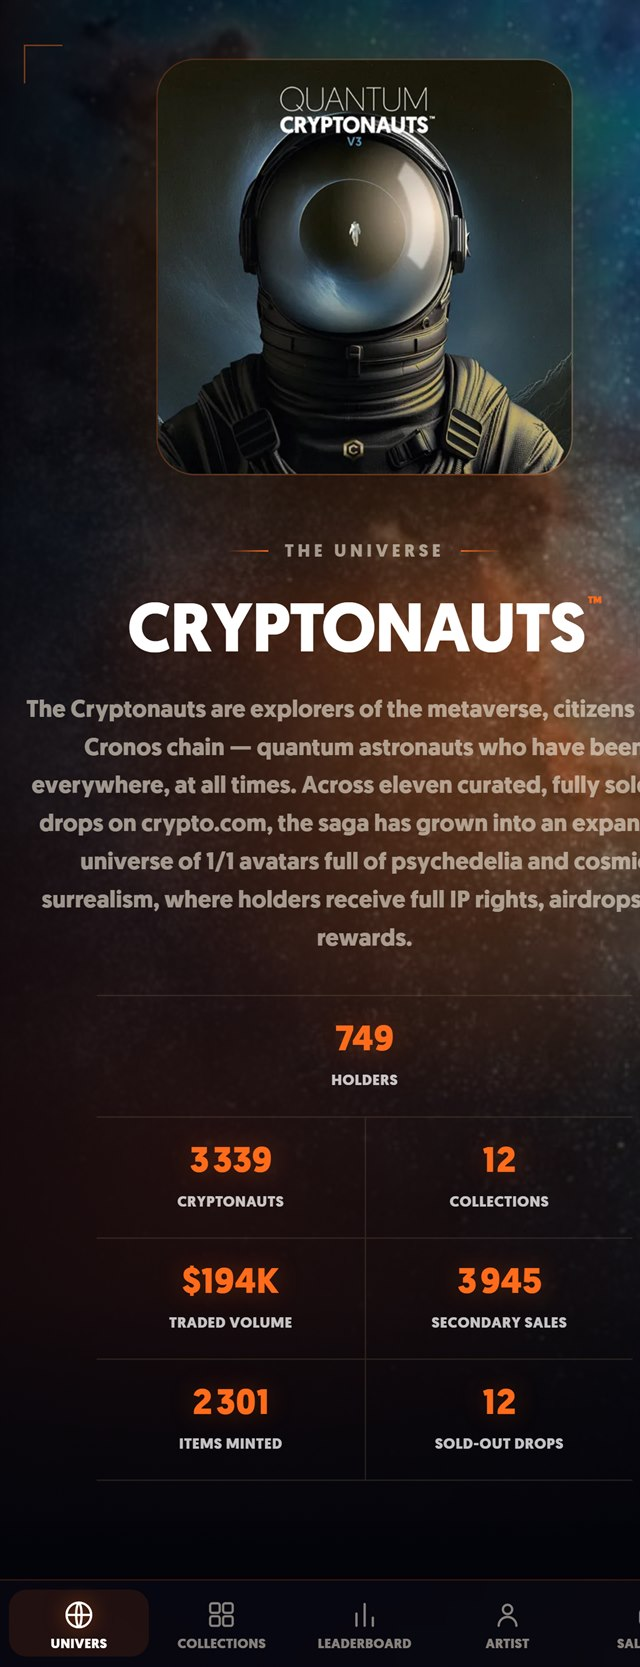
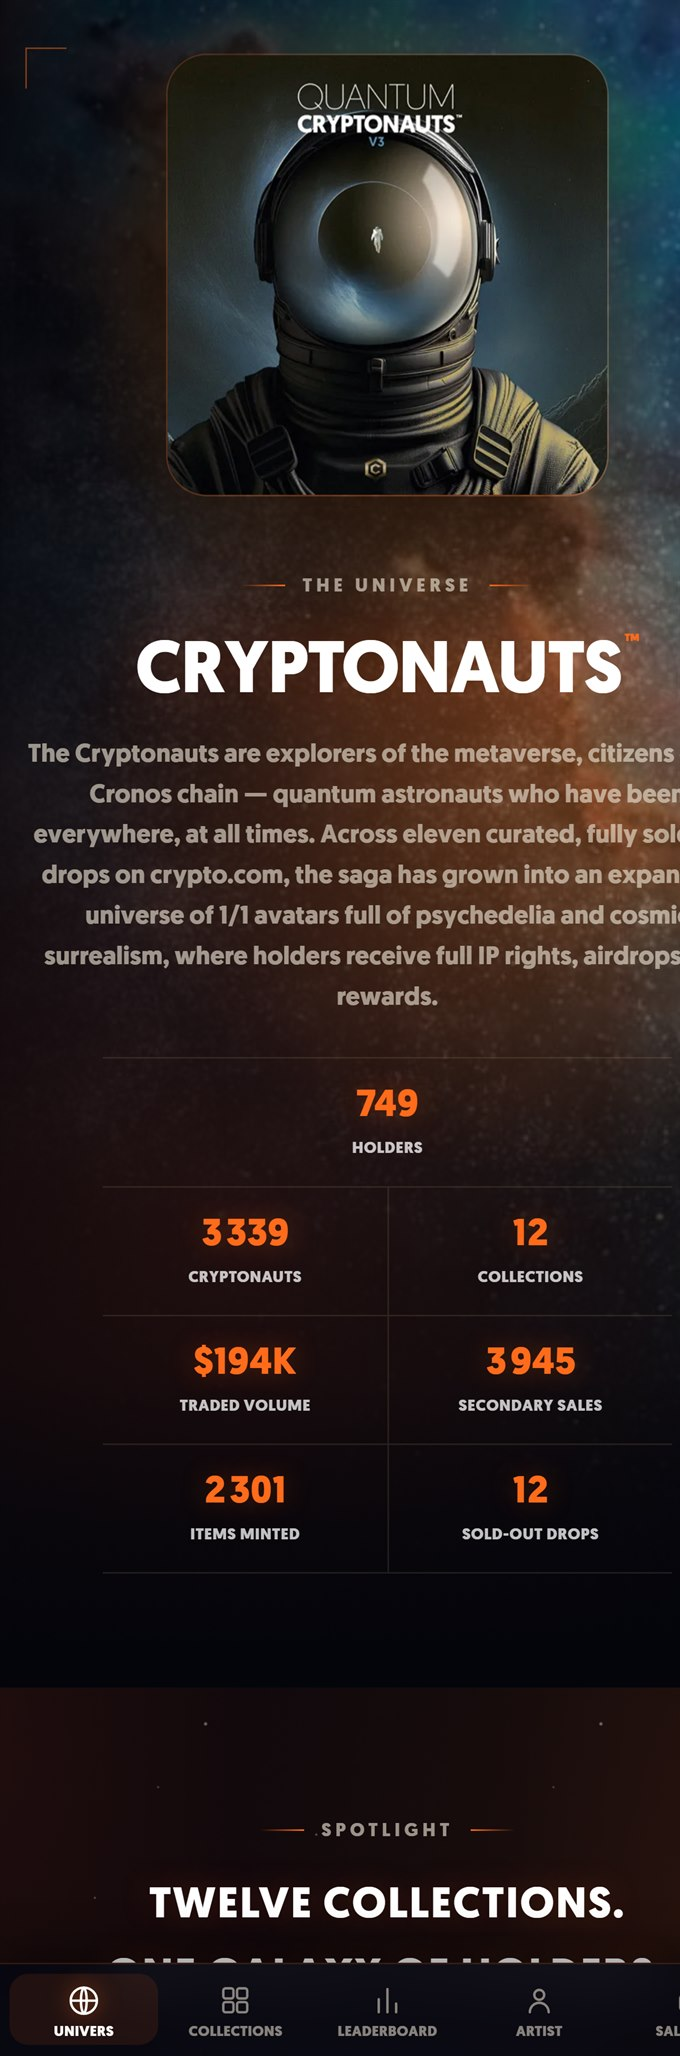
Vitrine : PC + mobile cote a cote, plus grand, chevauchement minimal
- Navigateur agrandi (devices 720px) et telephone place A COTE (a droite),
  ne chevauchant plus que ~12% du bord -> le contenu focal du site reste
  visible (fini le telephone qui masque le visuel).
- Telephone plus grand -> contenu mobile lisible (plus ecrase).
- Captures mobiles refaites plus hautes -> le telephone montre le hero.

Claude-Session: https://claude.ai/code/session_0127Z73V9gsaBQEdmrtoZHUB

diff --git a/styles.css b/styles.css
@@ -1022,12 +1022,12 @@ a.project:hover .project-thumb::after, a.project:focus-visible .project-thumb::a
 }
 
 /* Vitrine réalisations : carrousel PC + mobile */
-.showcase { display: grid; grid-template-columns: 1.34fr 0.78fr; gap: 34px; align-items: center; }
-.showcase-stage { position: relative; perspective: 1500px; }
-.devices { position: relative; width: min(100%, 620px); margin-inline: auto; animation: scFloat 7s var(--ease) infinite; }
+.showcase { display: grid; grid-template-columns: 1.48fr 0.72fr; gap: 26px; align-items: center; }
+.showcase-stage { position: relative; perspective: 1600px; }
+.devices { position: relative; width: min(100%, 720px); margin-inline: auto; animation: scFloat 7s var(--ease) infinite; }
 
 .browser {
-  position: relative; border-radius: 13px; overflow: hidden;
+  position: relative; width: 80%; border-radius: 13px; overflow: hidden;
   background: linear-gradient(160deg, #1c2c44, #0b1422);
   border: 1px solid var(--border);
   box-shadow: var(--shadow), 0 0 70px -22px rgba(56, 189, 248, 0.45), inset 0 1px 0 rgba(255, 255, 255, 0.08);
@@ -1042,7 +1042,7 @@ a.project:hover .project-thumb::after, a.project:focus-visible .project-thumb::a
 .browser-screen::after { content: ""; position: absolute; inset: 0; pointer-events: none; background: linear-gradient(120deg, rgba(255, 255, 255, 0.10) 0%, rgba(255, 255, 255, 0.03) 12%, transparent 26%); }
 
 .phone {
-  position: absolute; right: -4%; bottom: -12%; width: 23%; aspect-ratio: 9 / 19.5;
+  position: absolute; right: 0; bottom: -8%; width: 30%; aspect-ratio: 9 / 19.5;
   border-radius: 12% / 5.6%; padding: 3.2%;
   background: linear-gradient(145deg, #40485c 0%, #20252f 34%, #0c0f16 72%, #171b24 100%);
   box-shadow: 0 34px 60px -20px rgba(0, 0, 0, 0.85), 0 8px 22px -10px rgba(0, 0, 0, 0.6),
@@ -1097,7 +1097,7 @@ a.project:hover .project-thumb::after, a.project:focus-visible .project-thumb::a
   .sc-tab { flex: 1 1 40%; }
 }
 @media (max-width: 560px) {
-  .phone { width: 26%; bottom: -9%; right: -3%; }
+  .phone { width: 33%; bottom: -6%; right: 0; }
   .showcase-title { font-size: 1.3rem; }
 }
 @media (prefers-reduced-motion: reduce) {
